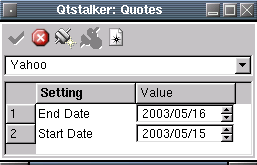
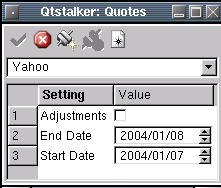
*** empty log message ***

diff --git a/docs/yahoo.html b/docs/yahoo.html
@@ -1,11 +1,11 @@
 <!DOCTYPE html PUBLIC "-//W3C//DTD XHTML Basic 1.0//EN" "http://www.w3.org/TR/xhtml-basic/xhtml-basic10.dtd">
 <html xmlns="http://www.w3.org/1999/xhtml">
 <head>
-  <meta http-equiv="Content-Type"
- content="text/html; charset=iso-8859-1">
+  <meta content="text/html; charset=iso-8859-1"
+ http-equiv="Content-Type">
   <title>Qtstalker - Quote Plugin - Yahoo</title>
-  <meta name="generator"
- content="amaya 6.1, see http://www.w3.org/Amaya/">
+  <meta content="amaya 6.1, see http://www.w3.org/Amaya/"
+ name="generator">
 </head>
 <body>
 <h2><u>Yahoo Plugin</u></h2>
@@ -20,15 +20,15 @@ symbols to update.</p>
   <li>End Date - The most recent date to include for update</li>
   <li>Start Date - The most distant date to include for update.</li>
   <li>Adjustments - Propagate the Close/Adjusted Close factor to all
-  price columns (i.e. adjust for stock splits and dividends).</li>
+price columns (i.e. adjust for stock splits and dividends).</li>
 </ul>
 <p></p>
-<img src="yahoo1.png" title="" alt=""
- style="width: 257px; height: 165px;">
+<img src="yahoo1.png" alt="" style="width: 221px; height: 188px;"><br>
 <p></p>
 <p></p>
 <p>Pressing the "New" button will bring up the following dialog.</p>
-<p><img alt="blah" src="yahoo2.png"> </p>
+<p><img src="yahoo2.png" alt="" style="width: 242px; height: 124px;"><br>
+</p>
 <p>Here we will be adding MSFT, IBM, RHAT to our database. Leave a
 space between the symbols.<br>
 </p>

diff --git a/docs/willr.html b/docs/willr.html
@@ -2,13 +2,12 @@
 <html>
 <head>
   <title>Williams Percent R - WILLR</title>
-  <meta http-equiv="content-type"
- content="text/html; charset=ISO-8859-1">
+  <meta content="text/html; charset=ISO-8859-1"
+ http-equiv="content-type">
 </head>
 <body>
 <h2><u>Williams Percent R - WILLR</u></h2>
-<img src="willr1.png" title="" alt=""
- style="width: 707px; height: 204px;"><br>
+<img src="willr1.png" alt="" style="width: 558px; height: 201px;"><br>
 <h3>Parameters:</h3>
 <ul>
   <li>Color -&nbsp;WILLR color</li>

diff --git a/src/Qtstalker.cpp b/src/Qtstalker.cpp
@@ -518,7 +518,7 @@ void QtstalkerApp::slotQuit()
 void QtstalkerApp::slotAbout()
 {
   QMessageBox *dialog = new QMessageBox(tr("About Qtstalker"),
-  					tr("Qtstalker\nVersion 0.23 \n(C) 2001-2003 by Stefan Stratigakos"),
+  					tr("Qtstalker\nVersion 0.23 \n(C) 2001-2004 by Stefan Stratigakos"),
 					QMessageBox::NoIcon,
 					QMessageBox::Ok,
 					QMessageBox::NoButton,
